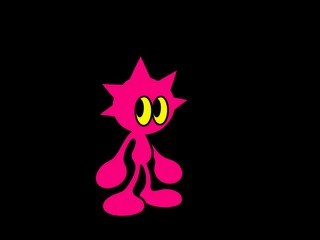
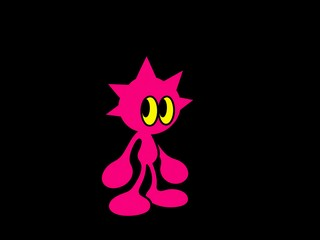
Nudge the idle character back toward center.
Generated with [Devin](https://devin.ai)

Changed region(s): [[0.2812, 0.2333, 0.625, 0.9042]]

diff --git a/friend/gizmo_friend/static/oddity-device.css b/friend/gizmo_friend/static/oddity-device.css
@@ -18,7 +18,7 @@ main{padding:0 16px}.simulator{width:min(650px,100%,calc((100svh - 180px)*1145/1
 .device-talk:active{cursor:grabbing}.device-talk:focus-visible{outline:2px solid #ffb5da;outline-offset:4px}
 .device-talk:before{content:'';position:absolute;inset:-10% -55% -10% -90%}
 .device-up:before,.device-down:before,.device-select:before{content:'';position:absolute;inset:0 -12px 0 -3px}
-.device .friend{position:absolute;left:27%;top:30%;width:34%;height:50%;display:grid;place-items:center;pointer-events:none}.device .friend img{height:100%;width:auto;object-fit:contain}
+.device .friend{position:absolute;left:29%;top:30%;width:34%;height:50%;display:grid;place-items:center;pointer-events:none}.device .friend img{height:100%;width:auto;object-fit:contain}
 .device .caption,.device .stage:not(.has-scene) .caption{font-size:3.6cqw;bottom:10%;left:8%;right:8%;line-height:1.25;max-height:34%}
 .device .listening,.device .stage-top,.device .stage-bottom{display:none}
 .device .play-blocked{font-size:3.2cqw;padding:2cqw 2.8cqw}

diff --git a/friend/gizmo_friend/static/oddity.html b/friend/gizmo_friend/static/oddity.html
@@ -7,7 +7,7 @@
   <link rel="icon" href="data:,">
   <link rel="stylesheet" href="/static/oddity-boot.css?v=gate14">
   <link rel="stylesheet" href="/static/oddity.css">
-  <link rel="stylesheet" href="/static/oddity-device.css?v=gate42">
+  <link rel="stylesheet" href="/static/oddity-device.css?v=gate43">
   <link rel="stylesheet" href="/static/oddity-experience.css">
   <link rel="preload" as="image" href="/static/device-reference-ptt-pressed.png">
   <link rel="preload" as="image" href="/static/oddity-character-half.png?v=char2">

diff --git a/body/assets/export_bundle.py b/body/assets/export_bundle.py
@@ -158,7 +158,7 @@ def home_base(source: Path, size: tuple[int, int]) -> Image.Image:
     box = (max(1, round(width * 0.58)), max(1, round(height * 0.72)))
     character.thumbnail(box, Image.Resampling.LANCZOS)
     canvas = Image.new("RGBA", size, (0, 0, 0, 255))
-    x = (width - character.width) // 2 - round(width * 0.06)
+    x = (width - character.width) // 2 - round(width * 0.04)
     y = round((height - character.height) / 2 + height * 0.05)
     canvas.alpha_composite(character, (x, y))
     return canvas
